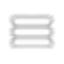
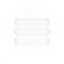
Emissive lighting for sprite lights.

Changed region(s): [[0.1562, 0.2188, 0.8438, 0.75]]

diff --git a/Dev/StaticSheepNeoBuildSystem/game/SheepGraphics/Context/Draw.cpp b/Dev/StaticSheepNeoBuildSystem/game/SheepGraphics/Context/Draw.cpp
@@ -127,7 +127,7 @@ namespace DirectSheep
                Vec2(m_spriteTrans.w, -m_spriteTrans.h), m_flip, m_spriteTrans.z);
   }
 
-  void RenderContext::DrawLightBatched(DirectSheep::Handle texture)
+  void RenderContext::DrawLightBatched(DirectSheep::Handle texture, bool emissive)
   {
     unsigned width = GetTextureSize(texture).width;
     unsigned height = GetTextureSize(texture).height;
@@ -153,14 +153,24 @@ namespace DirectSheep
     sourcePos.bottom = (long)(height * m_spriteTrans.uvEnd.y);
 
     if (!m_fullbright)
-      m_lightBatcher[m_curLayer]->Draw(m_textureRes[texture.index].m_ShaderRes,
-      Vec2(m_spriteTrans.x, m_spriteTrans.y),
-      &sourcePos,
-      XMLoadFloat4(&m_spriteBlend),
-      m_spriteTrans.theta,
-      Vec2((sourcePos.right - sourcePos.left) / 2.0f,
-      (sourcePos.bottom - sourcePos.top) / 2.0f),
-      Vec2(m_spriteTrans.w, -m_spriteTrans.h), m_flip, m_spriteTrans.z);
+      if (emissive)
+        m_emissiveBatcher[m_curLayer]->Draw(m_textureRes[texture.index].m_ShaderRes,
+        Vec2(m_spriteTrans.x, m_spriteTrans.y),
+        &sourcePos,
+        XMLoadFloat4(&m_spriteBlend),
+        m_spriteTrans.theta,
+        Vec2((sourcePos.right - sourcePos.left) / 2.0f,
+        (sourcePos.bottom - sourcePos.top) / 2.0f),
+        Vec2(m_spriteTrans.w, -m_spriteTrans.h), m_flip, m_spriteTrans.z);
+      else
+        m_lightBatcher[m_curLayer]->Draw(m_textureRes[texture.index].m_ShaderRes,
+        Vec2(m_spriteTrans.x, m_spriteTrans.y),
+        &sourcePos,
+        XMLoadFloat4(&m_spriteBlend),
+        m_spriteTrans.theta,
+        Vec2((sourcePos.right - sourcePos.left) / 2.0f,
+        (sourcePos.bottom - sourcePos.top) / 2.0f),
+        Vec2(m_spriteTrans.w, -m_spriteTrans.h), m_flip, m_spriteTrans.z);
   }
 
 
@@ -184,11 +194,21 @@ namespace DirectSheep
         ((Camera*)m_camera.ptr)->GetViewProj());
 
       if (!m_fullbright)
+      {
         m_lightBatcher[i]->Begin(SpriteSortMode_BackToFront,
-        m_states->Additive(),
-        m_states->LinearWrap(), m_states->DepthNone(),
-        m_states->CullCounterClockwise(), nullptr,
-        ((Camera*)m_camera.ptr)->GetViewProj());
+          m_states->Additive(),
+          m_states->LinearWrap(), m_states->DepthNone(),
+          m_states->CullCounterClockwise(), nullptr,
+          ((Camera*)m_camera.ptr)->GetViewProj());
+
+        m_emissiveBatcher[i]->Begin(SpriteSortMode_BackToFront,
+          //m_blendStateMap[BLEND_MODE_ZACH],
+          m_states->NonPremultiplied(),
+          m_states->LinearWrap(), m_states->DepthNone(),
+          m_states->CullCounterClockwise(), nullptr,
+          ((Camera*)m_camera.ptr)->GetViewProj());
+      }
+        
     }
 
   }
@@ -199,31 +219,41 @@ namespace DirectSheep
     
     for (int i = 0; i < m_curMaxLayers; ++i)
     {
+      /* Lighting calculations are done in 1920x1080 at all times. */
       SetViewport(0, 0, Dimension(1920, 1080));
       RenderTarget* rt = &m_renderTargetRes[m_lightTarget.index];
 
       if (!m_fullbright)
       {
+        /* Clear the render target and the draw all of our lights. */
         ClearRenderTarget(m_lightTarget, 0, 0, 0, 0);
         BindRenderTarget(m_lightTarget);
+
+        // Draw Sprite lights
         m_lightBatcher[i]->End();
+        // Draw Point lights
         DrawPointLights(true, i); // fix forced true
       }
 
+      /* Switch our view port back to the window size for the rest of the drawing. */
       SetViewport(0, 0, Dimension(SCREEN_WIDTH, SCREEN_HEIGHT));
 
-      ClearRenderTarget(m_canvasTarget, 0, 0, 0, 0);
+      /* Draw the contents of our canvas (diffuse textures) */
+      ClearRenderTarget(m_canvasTarget, 0, 0, 0, 0); // Clear canvas
       BindRenderTarget(m_canvasTarget);
+      // Draw Sprites
       m_batcher[i]->End();
 
 
-      // Blend render targets
-      
+      /* Draw the Lighting render target onto our canvas render target
+      using a multiplicative blend state. */
       SetBlendMode(BLEND_MODE_MULTIPLY);
 
-      m_deviceContext->PSSetSamplers(0, 1, &m_sampleStates[0]);
-
+      // Store identity matrix for later use
       Mat4 identity = DirectX::XMMatrixIdentity();
+      // Default sampling state (wrap)
+
+      m_deviceContext->PSSetSamplers(0, 1, &m_sampleStates[0]);
 
       m_genericEffect->bind(m_deviceContext);
       m_genericEffect->bindPosUV(m_deviceContext,
@@ -232,26 +262,37 @@ namespace DirectSheep
         DirectX::XMMatrixTranslationFromVector(Vec3(1, -1, 0)) *
         DirectX::XMMatrixScaling(1920 / 2, 1080 / 2, 0),
         Vec2(), Vec2());
-
-
+      // No blend colors
       m_genericEffect->bindAmbient(m_deviceContext, Vec4(1, 1, 1, 1), 1);
-      
       m_quad->bind(m_deviceContext);
 
       // Draw lights onto canvas
       if (!m_fullbright)
       {
+        // Set our lighting render target as our texture to draw
         m_deviceContext->PSSetShaderResources(0, 1, &(rt->shaderResourceView));
         m_deviceContext->DrawIndexed(m_quad->getIndexCount(), 0, 0);
+
+        // Draw Emissive Sprite Lights
+        m_emissiveBatcher[i]->End();
       }
 
+      /* Draw our canvas onto our back buffer using alpha blending. */
+
+      // rt is now our canvas
       rt = &m_renderTargetRes[m_canvasTarget.index];
 
 
-      
+      m_genericEffect->bind(m_deviceContext);
+      //m_deviceContext->PSSetSamplers(0, 1, &m_sampleStates[0]);
+      //m_genericEffect->bindAmbient(m_deviceContext, Vec4(1, 1, 1, 1), 1);
+      m_quad->bind(m_deviceContext);
+
+      // Set the back buffer as our render target
       m_deviceContext->OMSetRenderTargets(1,
         &m_backBuffer, m_depthBuffer.m_depthBuffer);
 
+      // Bind generic effect for drawing a window sized texture
       m_genericEffect->bindPosUV(m_deviceContext,
         identity,
         identity,
@@ -262,8 +303,6 @@ namespace DirectSheep
       // Draw canvas onto back buffer
       SetBlendMode(BLEND_MODE_ALPHA);
       m_deviceContext->PSSetShaderResources(0, 1, &(rt->shaderResourceView));
-
-      
 
       m_deviceContext->DrawIndexed(m_quad->getIndexCount(), 0, 0);
 
@@ -383,7 +422,7 @@ namespace DirectSheep
 
   void RenderContext::BatchPointLight(Framework::Vec3D position,
     Framework::Vec4D brightness, Framework::Vec3D attenuation,
-    unsigned layer)
+    unsigned layer, bool emissive)
   {
     // Convert stats from into DirectX container, do scalar ratio
     Vec3 pos(position.x, position.y, position.z);
@@ -399,13 +438,17 @@ namespace DirectSheep
       attenuation.z / 15000.0f);
 
     // Store new light in vector, to be drawn at DrawPLights
-    m_PointLights[layer].push_back(Light(pos, col, at));
+    if (emissive)
+      m_emissivePointLights[layer].push_back(Light(pos, col, at));
+    else
+      m_PointLights[layer].push_back(Light(pos, col, at));
   }
 
   void RenderContext::BatchPointLight(Framework::Vec3D position,
-    Framework::Vec4D brightness, Framework::Vec3D attenuation)
+    Framework::Vec4D brightness, Framework::Vec3D attenuation,
+    bool emissive)
   {
-    BatchPointLight(position, brightness, attenuation, m_curLayer);
+    BatchPointLight(position, brightness, attenuation, m_curLayer, emissive);
   }
 
   void RenderContext::DrawPointLights(bool isLight, unsigned layer)
@@ -437,7 +480,7 @@ namespace DirectSheep
     m_PointLight->bind(m_deviceContext);
 
     // Set appropriate blend mode
-    SetBlendMode(BLEND_MODE_ALPHA_ADDITIVE);
+    SetBlendMode(BLEND_MODE_ADDITIVE);
 
     // Draw lights
     m_deviceContext->DrawIndexed(m_PLightModel->getIndexCount(), 0, 0);

diff --git a/Dev/StaticSheepNeoBuildSystem/game/SheepEngine/Components/gameplay_scripts/arena/CBlockLights.cpp b/Dev/StaticSheepNeoBuildSystem/game/SheepEngine/Components/gameplay_scripts/arena/CBlockLights.cpp
@@ -29,11 +29,13 @@ namespace Framework
 
   void BlockLights::Remove()
   {
-
+    space->hooks.Remove("LogicUpdate", self);
+    space->hooks.Remove("TriggerLights", self);
   }
 
   void BlockLights::Update(float dt)
   {
+    /* Deactivates after a certain time */
     if (m_activated)
     {
       m_timeLeft -= dt;
@@ -44,28 +46,36 @@ namespace Framework
 
   void BlockLights::Activate(TriggerData* data)
   {
-    m_activated = true;
-    m_timeLeft = data->duration;
-    m_effect = data->fx;
-
     SpriteLight* sl = (SpriteLight*)space->GetGameObject(owner)
       ->GetComponent(eSpriteLight);
 
     if (!sl)
       return;
 
-    m_prevStatus = sl->m_isOn;
-
-    sl->m_isOn = true;
-
-    if (data->overrideColor)
+    if (!m_activated)
     {
-      m_prevColor = sl->Color;
-      sl->Color = data->color;
+      /* Store old data from before we were
+      activated so that we may return to it
+      after a duration of time. */
+      m_prevStatus = sl->m_isOn;
+
+      if (data->overrideColor)
+      {
+        m_prevColor = sl->Color;
+        sl->Color = data->color;
+      }
+      m_overrideColor = data->overrideColor;
     }
 
-    m_overrideColor = data->overrideColor;
-      
+    m_activated = true;
+    m_timeLeft = data->duration;
+    m_effect = data->fx;
+
+    
+
+    
+    
+    sl->m_isOn = true;
   }
 
   void BlockLights::Deactivate()
@@ -79,6 +89,7 @@ namespace Framework
     if (!sl)
       return;
 
+    /* Restore previous settings */
     sl->m_isOn = m_prevStatus;
     if (m_overrideColor)
       sl->Color = m_prevColor;

diff --git a/Dev/StaticSheepNeoBuildSystem/game/SheepGraphics/Context/Context.h b/Dev/StaticSheepNeoBuildSystem/game/SheepGraphics/Context/Context.h
@@ -82,13 +82,13 @@ class RenderContext
    void Draw(unsigned vertexCount, unsigned vertexStart = 0);
    void DrawSpriteText(const char * text, int index, Framework::Vec2D& scale);
    void DrawBatched(DirectSheep::Handle texture);
-   void DrawLightBatched(DirectSheep::Handle texture);
+   void DrawLightBatched(DirectSheep::Handle texture, bool emissive = false);
    // Layer: 0 = Background, 1 = Foreground, 2 = Front
    void BatchPointLight(Framework::Vec3D position,
-     Framework::Vec4D brightness, Framework::Vec3D attenuation);
+     Framework::Vec4D brightness, Framework::Vec3D attenuation, bool emissive = false);
 
    void BatchPointLight(Framework::Vec3D position,
-     Framework::Vec4D brightness, Framework::Vec3D attenuation, unsigned layer);
+     Framework::Vec4D brightness, Framework::Vec3D attenuation, unsigned layer, bool emissive = false);
    
    void SetLayer(unsigned layer)
    {
@@ -397,7 +397,8 @@ class RenderContext
     unsigned m_curMaxLayers = 3;
     bool m_fullbright = false;
     
-    std::vector<Light>                    m_PointLights[MAX_LAYERS];
+    std::vector<Light>    m_PointLights[MAX_LAYERS];
+    std::vector<Light>    m_emissivePointLights[MAX_LAYERS];
 
     DirectX::SpriteBatch* m_batcher[MAX_LAYERS];
     DirectX::SpriteBatch* m_lightBatcher[MAX_LAYERS];

diff --git a/Dev/StaticSheepNeoBuildSystem/game/SheepGraphics/Context/Create.cpp b/Dev/StaticSheepNeoBuildSystem/game/SheepGraphics/Context/Create.cpp
@@ -361,19 +361,22 @@ namespace DirectSheep
 
     ZeroMemory(&bd, sizeof(D3D11_BLEND_DESC));
     bd.RenderTarget[0].BlendEnable = true;
+
     bd.RenderTarget[0].BlendOp = D3D11_BLEND_OP_ADD;
-    bd.RenderTarget[0].SrcBlend = D3D11_BLEND_INV_DEST_ALPHA;
-    bd.RenderTarget[0].DestBlend = D3D11_BLEND_ONE;
+    bd.RenderTarget[0].SrcBlend = D3D11_BLEND_ZERO;
+    bd.RenderTarget[0].DestBlend = D3D11_BLEND_SRC_COLOR;
+
     bd.RenderTarget[0].BlendOpAlpha = D3D11_BLEND_OP_ADD;
-    bd.RenderTarget[0].SrcBlendAlpha = D3D11_BLEND_INV_DEST_ALPHA;
-    bd.RenderTarget[0].DestBlendAlpha = D3D11_BLEND_ONE;
+    bd.RenderTarget[0].SrcBlendAlpha = D3D11_BLEND_ZERO;
+    bd.RenderTarget[0].DestBlendAlpha = D3D11_BLEND_DEST_ALPHA;
+
     bd.RenderTarget[0].RenderTargetWriteMask = D3D11_COLOR_WRITE_ENABLE_ALL;
 
     bd.AlphaToCoverageEnable = false;
     bd.IndependentBlendEnable = false;
 
     DXVerify(m_device->CreateBlendState(&bd,
-      &m_blendStateMap[BLEND_MODE_ALPHA_ADDITIVE]));
+      &m_blendStateMap[BLEND_MODE_ZACH]));
 
 
     ZeroMemory(&bd, sizeof(D3D11_BLEND_DESC));

diff --git a/Dev/StaticSheepNeoBuildSystem/game/SheepEngine/config/DefaultTypes.cpp b/Dev/StaticSheepNeoBuildSystem/game/SheepEngine/config/DefaultTypes.cpp
@@ -319,6 +319,7 @@ namespace Framework
     TYPE_ADD_MEMBER(SpriteLight, m_flipY, false, true, "FlipY");
     TYPE_ADD_MEMBER(SpriteLight, m_uvScale, false, true, "Tiled");
     TYPE_ADD_MEMBER(SpriteLight, m_isOn, false, true, "Active");
+    TYPE_ADD_MEMBER(SpriteLight, m_emissive, false, true, "Emissive");
     TYPE_ADD_MEMBER(SpriteLight, m_brightness, false, true, "Brightness");
     TYPE_ADD_MEMBER(SpriteLight, m_origin, false, true, "LightOrigin");
     TYPE_ADD_MEMBER(SpriteLight, Size, false, true, "LightScale");

diff --git a/Dev/StaticSheepNeoBuildSystem/game/SheepEngine/Components/lights/CSpriteLight.cpp b/Dev/StaticSheepNeoBuildSystem/game/SheepEngine/Components/lights/CSpriteLight.cpp
@@ -84,7 +84,7 @@ namespace Framework
     GRAPHICS->SetSpriteFlip(m_flipX, m_flipY);
     GRAPHICS->SetCamState(0);
 
-    GRAPHICS->RC()->DrawLightBatched(this->m_texture);
+    GRAPHICS->RC()->DrawLightBatched(this->m_texture, m_emissive);
 
     GRAPHICS->SetObjectOrigin(0, 0);
   }

diff --git a/Dev/StaticSheepNeoBuildSystem/game/SheepGraphics/DataTypes.h b/Dev/StaticSheepNeoBuildSystem/game/SheepGraphics/DataTypes.h
@@ -73,7 +73,7 @@ namespace DirectSheep
     BLEND_MODE_NONE = -1,
     BLEND_MODE_ALPHA,
     BLEND_MODE_ADDITIVE,
-    BLEND_MODE_ALPHA_ADDITIVE,
+    BLEND_MODE_ZACH,
     BLEND_MODE_MULTIPLY,
   };
 

diff --git a/Dev/StaticSheepNeoBuildSystem/game/SheepEngine/Components/lights/CSpriteLight.h b/Dev/StaticSheepNeoBuildSystem/game/SheepEngine/Components/lights/CSpriteLight.h
@@ -42,6 +42,8 @@ namespace Framework
 
     bool m_isOn;
 
+    bool m_emissive = false;
+
     bool m_mimicSprite = false;
     void TweakMimicSprite(const void* mimic);
   };
